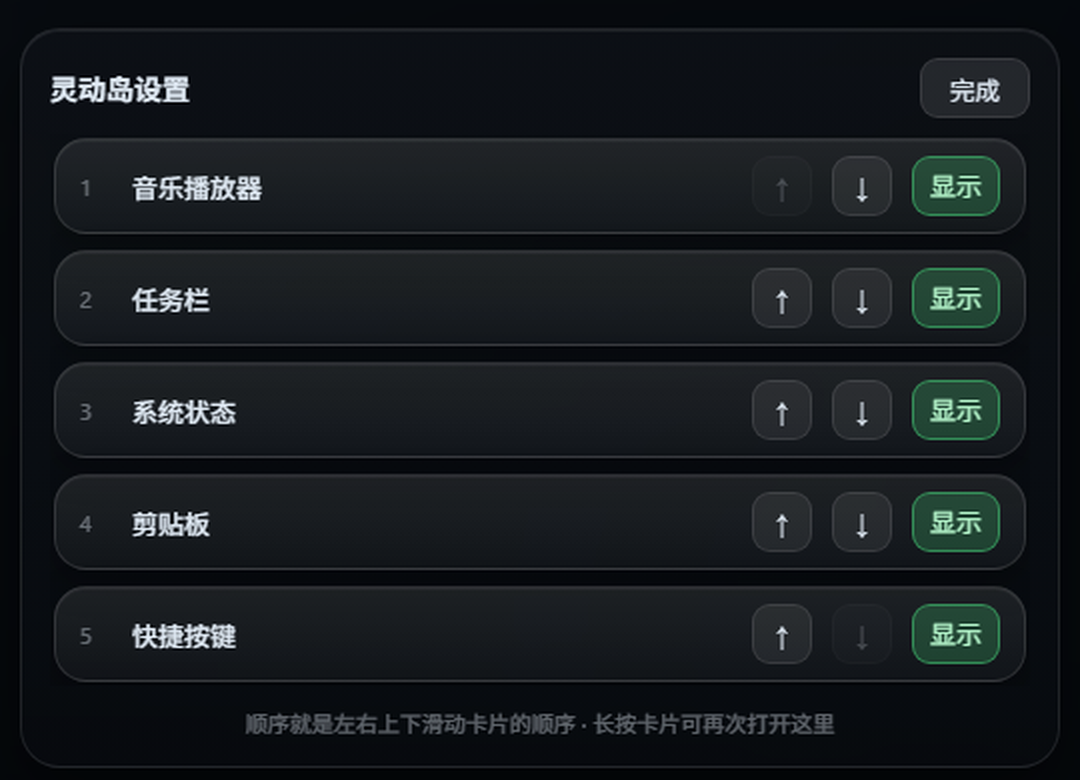
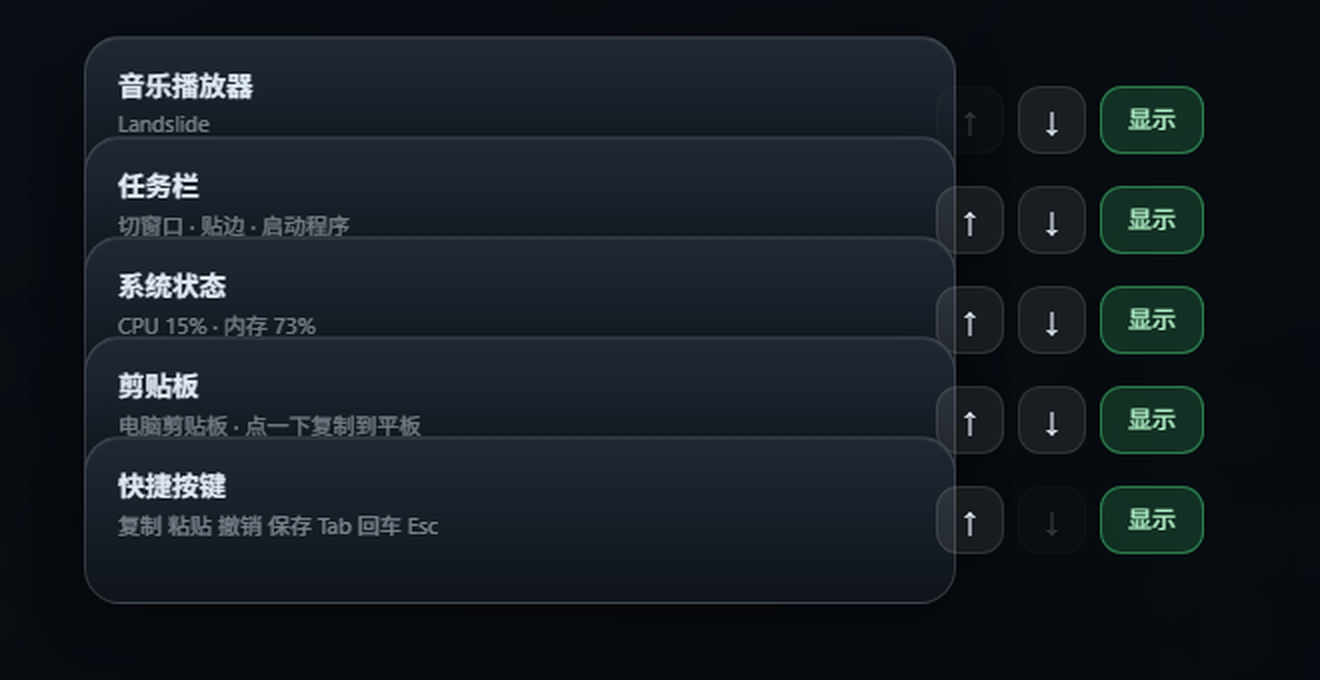
feat(island): 设置面板改成卡片堆叠展开（仿华为）
- 长按卡片后，所有卡片从中间叠着的状态展开成竖排，每张错开 50px、卡高 84
- 每张卡右侧有 ↑ / ↓ / 显示，对齐到各自卡片
- 只改 transform，靠 CSS transition 动画：打开依次铺开（i*38ms 延迟）、
  重排同一套动画（DOM 不重建）、关闭反向收回
- 卡片底色改成近乎不透明，叠起来时下层文字不会透上来
- 内容顶部对齐，被叠住时也能看到标题和副标题

Changed region(s): [[0.0306, 0.0309, 0.9778, 0.9574], [0.0611, 0.8029, 0.0917, 0.8338], [0.0306, 0.7721, 0.0611, 0.8029]]

diff --git a/web/app.js b/web/app.js
@@ -999,7 +999,7 @@
   const CFG_KEY = 'padtrack.island.prefs';
   const CFG_NAMES = { music: '音乐播放器', tasks: '任务栏', sys: '系统状态', clip: '剪贴板', macro: '快捷按键' };
   const cfgPanel = document.getElementById('islandCfg');
-  const cfgListEl = document.getElementById('cfgList');
+  const cfgStage = document.getElementById('cfgStage');
   const cfgDoneBtn = document.getElementById('cfgClose');
 
   let cfgPrefs = { order: [], hidden: [] };
@@ -1040,57 +1040,125 @@
     islandPaint(true);
   }
 
-  function cfgRender() {
-    if (!cfgListEl) return;
-    cfgListEl.innerHTML = '';
-    const list = cfgOrdered();
-    list.forEach((card, i) => {
-      const hid = cfgPrefs.hidden.includes(card.id);
+  // 舞台里每张卡一个 .cfgrow（卡本体 + 右侧控制）
+  const cfgRows = new Map();      // id → row 元素
+  let cfgBuilt = false;
+
+  function cfgSubtitle(id) {
+    if (id === 'music') {
+      const t = document.getElementById('musicTitle');
+      return (t && t.textContent && t.textContent !== '—') ? t.textContent : '当前没有播放';
+    }
+    if (id === 'tasks') return '切窗口 · 贴边 · 启动程序';
+    if (id === 'sys') {
+      const c = document.getElementById('sysCpu');
+      return c ? ('CPU ' + c.textContent + ' · 内存 ' + document.getElementById('sysMem').textContent) : 'CPU / GPU / 温度';
+    }
+    if (id === 'clip') return '电脑剪贴板 · 点一下复制到平板';
+    if (id === 'macro') return '复制 粘贴 撤销 保存  Tab 回车 Esc';
+    return '';
+  }
+
+  function cfgBuild() {
+    if (cfgBuilt || !cfgStage) return;
+    cfgBuilt = true;
+    ISLAND_CARDS.forEach((card) => {
       const row = document.createElement('div');
-      row.className = 'cfgrow' + (hid ? ' off' : '');
+      row.className = 'cfgrow';
       row.dataset.card = card.id;
 
-      const no = document.createElement('span');
-      no.className = 'cfgno';
-      no.textContent = String(i + 1);
-      row.appendChild(no);
-
+      const cardEl = document.createElement('div');
+      cardEl.className = 'cfgcard';
       const name = document.createElement('b');
       name.textContent = CFG_NAMES[card.id] || card.id;
-      row.appendChild(name);
+      const sub = document.createElement('i');
+      sub.className = 'cfgsub';
+      cardEl.appendChild(name);
+      cardEl.appendChild(sub);
+      row.appendChild(cardEl);
+
+      const ctrls = document.createElement('div');
+      ctrls.className = 'cfgctrls';
 
       const up = document.createElement('button');
       up.textContent = '↑';
-      up.disabled = i === 0;
-      up.addEventListener('click', (e) => { e.stopPropagation(); cfgMove(i, -1); });
-      row.appendChild(up);
-
+      up.dataset.act = 'up';
       const down = document.createElement('button');
       down.textContent = '↓';
-      down.disabled = i === list.length - 1;
-      down.addEventListener('click', (e) => { e.stopPropagation(); cfgMove(i, 1); });
-      row.appendChild(down);
-
+      down.dataset.act = 'down';
       const tg = document.createElement('button');
-      tg.className = 'cfgtoggle' + (hid ? '' : ' on');
-      tg.textContent = hid ? '隐藏' : '显示';
-      tg.addEventListener('click', (e) => { e.stopPropagation(); cfgToggle(card.id); });
-      row.appendChild(tg);
+      tg.className = 'cfgtoggle';
+      tg.dataset.act = 'toggle';
 
-      cfgListEl.appendChild(row);
+      ctrls.appendChild(up);
+      ctrls.appendChild(down);
+      ctrls.appendChild(tg);
+      row.appendChild(ctrls);
+
+      up.addEventListener('click', (e) => { e.stopPropagation(); cfgMove(card.id, -1); });
+      down.addEventListener('click', (e) => { e.stopPropagation(); cfgMove(card.id, 1); });
+      tg.addEventListener('click', (e) => { e.stopPropagation(); cfgToggle(card.id); });
+
+      cfgStage.appendChild(row);
+      cfgRows.set(card.id, row);
     });
   }
 
-  function cfgMove(index, delta) {
+  // 只改 transform，靠 CSS transition 做动画（重排也是同一个动画）
+  function cfgLayout(animate) {
+    const list = cfgOrdered();
+    const step = 50;                     // 每张卡错开 50px（卡高 84，所以有重叠）
+    const h = 84;
+    const total = h + (list.length - 1) * step;
+
+    list.forEach((card, i) => {
+      const row = cfgRows.get(card.id);
+      if (!row) return;
+      const y = i * step - total / 2 + h / 2;
+      row.style.zIndex = String(10 + i);
+      if (animate) {
+        row.style.transitionDelay = (i * 38) + 'ms';
+        requestAnimationFrame(() => {
+          row.style.transform = `translate3d(0, ${y}px, 0)`;
+          row.style.opacity = '1';
+          setTimeout(() => { row.style.transitionDelay = '0ms'; }, 600 + i * 38);
+        });
+      } else {
+        row.style.transform = `translate3d(0, ${y}px, 0)`;
+        row.style.opacity = '1';
+      }
+    });
+
+    // 控制按钮状态 + 副标题
+    list.forEach((card, i) => {
+      const row = cfgRows.get(card.id);
+      if (!row) return;
+      const hid = cfgPrefs.hidden.includes(card.id);
+      row.classList.toggle('off', hid);
+      const up = row.querySelector('[data-act="up"]');
+      const down = row.querySelector('[data-act="down"]');
+      const tg = row.querySelector('[data-act="toggle"]');
+      if (up) up.disabled = i === 0;
+      if (down) down.disabled = i === list.length - 1;
+      if (tg) {
+        tg.textContent = hid ? '隐藏' : '显示';
+        tg.classList.toggle('on', !hid);
+      }
+      const sub = row.querySelector('.cfgsub');
+      if (sub) sub.textContent = cfgSubtitle(card.id);
+    });
+  }
+
+  function cfgMove(id, delta) {
     const ids = cfgOrdered().map((c) => c.id);
-    const to = index + delta;
-    if (to < 0 || to >= ids.length) return;
-    const [x] = ids.splice(index, 1);
-    ids.splice(to, 0, x);
+    const at = ids.indexOf(id);
+    const to = at + delta;
+    if (at < 0 || to < 0 || to >= ids.length) return;
+    ids.splice(to, 0, ids.splice(at, 1)[0]);
     cfgPrefs.order = ids;
     cfgSave();
     cfgApply();
-    cfgRender();
+    cfgLayout(true);          // 只改 transform，位置会自己滑过去
   }
 
   function cfgToggle(id) {
@@ -1108,26 +1176,42 @@
     cfgPrefs.hidden = [...hidden];
     cfgSave();
     cfgApply();
-    cfgRender();
+    cfgLayout(false);
   }
 
   function cfgOpen() {
     if (!cfgPanel) return;
-    cfgRender();
+    cfgBuild();
+    // 先全部叠到中间（合起来），再动画铺开
+    cfgRows.forEach((row) => {
+      row.style.transitionDelay = '0ms';
+      row.style.transform = 'translate3d(0, 0, 0) scale(.92)';
+      row.style.opacity = '0';
+    });
     cfgPanel.classList.add('on');
     cfgPanel.setAttribute('aria-hidden', 'false');
+    void cfgPanel.offsetWidth;          // 强制回流，保证有起始态
+    cfgLayout(true);
   }
 
   function cfgClosePanel() {
     if (!cfgPanel) return;
-    cfgPanel.classList.remove('on');
-    cfgPanel.setAttribute('aria-hidden', 'true');
+    // 收回中间再关闭
+    cfgRows.forEach((row) => {
+      row.style.transitionDelay = '0ms';
+      row.style.transform = 'translate3d(0, 0, 0) scale(.94)';
+      row.style.opacity = '0';
+    });
+    setTimeout(() => {
+      cfgPanel.classList.remove('on');
+      cfgPanel.setAttribute('aria-hidden', 'true');
+    }, 240);
   }
 
   if (cfgDoneBtn) cfgDoneBtn.addEventListener('click', (e) => { e.stopPropagation(); cfgClosePanel(); });
   if (cfgPanel) {
     cfgPanel.addEventListener('pointerdown', (e) => {
-      if (e.target === cfgPanel) cfgClosePanel();
+      if (e.target === cfgPanel || e.target === cfgStage) cfgClosePanel();
     });
   }
 

diff --git a/web/app.css b/web/app.css
@@ -1330,52 +1330,71 @@ html.glass-light {
   .winmenu button:active { background: var(--glass-hover); }
   .winmenu button.danger { color: #ff9c9c; }
 
-
-  /* ================= 灵动岛设置面板 ================= */
+  /* ================= 灵动岛设置：卡片堆叠展开 ================= */
   .islandcfg {
     position: fixed; inset: 0; z-index: 92; display: none;
-    background: rgba(4, 7, 10, .72);
-    backdrop-filter: blur(16px); -webkit-backdrop-filter: blur(16px);
+    background: rgba(4, 7, 10, .58);
+    backdrop-filter: blur(10px); -webkit-backdrop-filter: blur(10px);
   }
-  .islandcfg.on { display: flex; align-items: flex-end; justify-content: center; }
-  .cfgsheet {
-    width: min(96vw, 520px); max-height: 76vh; margin-bottom: 16px;
-    display: flex; flex-direction: column; gap: 8px;
-    padding: 14px; border-radius: 20px;
-    background: linear-gradient(180deg, var(--glass-top), var(--glass-bot));
-    border: 1px solid var(--glass-border);
-    box-shadow: var(--card-shadow-front);
-    animation: cfgIn .26s cubic-bezier(.32,1.25,.45,1);
-  }
-  @keyframes cfgIn { from { opacity: 0; transform: translateY(18px) scale(.98); } }
-  .cfghead { display: flex; align-items: center; justify-content: space-between; }
-  .cfghead span { font-size: 14px; font-weight: 600; color: var(--glass-text); }
-  .cfghead button {
-    height: 30px; padding: 0 14px; border-radius: 9px;
-    background: rgba(255, 255, 255, .1); border: 1px solid var(--glass-border);
-    color: var(--glass-text); font-size: 12.5px;
-  }
-  .cfglist { display: flex; flex-direction: column; gap: 6px; overflow-y: auto; }
-  /* 每行做成一张「卡片」的样子，像华为卡片堆叠那样能一眼看到全部卡片 */
-  .cfglist { gap: 8px; padding: 2px; }
+  .islandcfg.on { display: block; }
+  .cfgstage { position: absolute; inset: 0; }
+
+  /* 每一行 = 一张卡 + 右侧控制；整行用 transform 定位，重排时只改 transform */
   .cfgrow {
-    display: flex; align-items: center; gap: 10px;
-    min-height: 48px; padding: 8px 12px; border-radius: 16px;
-    background: linear-gradient(180deg, rgba(255,255,255,.09), rgba(255,255,255,.04));
-    border: 1px solid rgba(255, 255, 255, .12);
-    box-shadow: 0 6px 18px rgba(0, 0, 0, .28), inset 0 1px 0 rgba(255, 255, 255, .06);
-    transition: transform .18s var(--ease-spring), opacity .2s ease, border-color .2s ease;
+    position: absolute; left: 50%; top: 50%;
+    width: min(86vw, 560px); height: 84px;
+    margin-left: calc(min(86vw, 560px) / -2 + 52px);
+    margin-top: -42px;
+    transition: transform .52s cubic-bezier(.32, 1.18, .4, 1), opacity .3s ease;
+    will-change: transform, opacity;
   }
-  .cfgrow:active { transform: scale(.985); }
-  .cfgrow.off { opacity: .45; }
-  .cfgrow b { flex: 1 1 auto; font-size: 13px; font-weight: 500; color: var(--glass-text); }
-  .cfgrow .cfgno { font-size: 11px; color: rgba(226,236,246,.4); width: 16px; }
-  .cfgrow button {
-    width: 30px; height: 30px; border-radius: 9px;
-    background: rgba(255, 255, 255, .07); border: 1px solid var(--glass-border);
-    color: var(--glass-text); font-size: 13px; line-height: 1;
+
+  /* 卡片本体 */
+  .cfgcard {
+    position: absolute; inset: 0 124px 0 0;
+    display: flex; flex-direction: column; justify-content: flex-start; gap: 2px;
+    padding: 13px 16px 0;
+    border-radius: 18px;
+    /* 要够实：叠起来时下层的文字不能透上来 */
+    background: linear-gradient(180deg, rgba(32, 41, 52, .985), rgba(15, 20, 27, .99));
+    border: 1px solid rgba(255, 255, 255, .14);
+    box-shadow: 0 10px 26px rgba(0, 0, 0, .42), inset 0 1px 0 rgba(255, 255, 255, .07);
+    overflow: hidden;
   }
-  .cfgrow button:disabled { opacity: .25; }
-  .cfgrow .cfgtoggle { width: 44px; }
-  .cfgrow .cfgtoggle.on { background: rgba(74, 222, 128, .22); border-color: rgba(74, 222, 128, .5); color: #b7f7cd; }
-  .cfgtip { font-size: 11px; color: rgba(226, 236, 246, .42); text-align: center; padding-top: 2px; }
+  .cfgcard b { font-size: 13.5px; font-weight: 600; color: var(--glass-text); }
+  .cfgcard i {
+    font-style: normal; font-size: 11px; color: rgba(226, 236, 246, .5);
+    white-space: nowrap; overflow: hidden; text-overflow: ellipsis;
+  }
+  .cfgrow.off .cfgcard { opacity: .38; border-style: dashed; }
+
+  /* 右侧控制 */
+  .cfgctrls {
+    position: absolute; right: 0; top: 50%; transform: translateY(-50%);
+    display: flex; align-items: center; gap: 7px;
+  }
+  .cfgctrls button {
+    width: 34px; height: 34px; border-radius: 11px;
+    background: rgba(255, 255, 255, .08); border: 1px solid var(--glass-border);
+    color: var(--glass-text); font-size: 14px; line-height: 1;
+    transition: background .15s ease, transform .15s var(--ease-spring), opacity .15s ease;
+  }
+  .cfgctrls button:active { background: var(--glass-hover); transform: scale(.9); }
+  .cfgctrls button:disabled { opacity: .2; }
+  .cfgctrls .cfgtoggle { width: 52px; font-size: 12px; }
+  .cfgctrls .cfgtoggle.on {
+    background: rgba(74, 222, 128, .18);
+    border-color: rgba(74, 222, 128, .45);
+    color: #b7f7cd;
+  }
+
+  .cfgdone {
+    position: absolute; right: 18px; top: calc(14px + env(safe-area-inset-top));
+    height: 34px; padding: 0 18px; border-radius: 12px;
+    background: rgba(255, 255, 255, .1); border: 1px solid var(--glass-border);
+    color: var(--glass-text); font-size: 13px;
+  }
+  .cfgtip {
+    position: absolute; left: 0; right: 0; bottom: calc(16px + env(safe-area-inset-bottom));
+    text-align: center; font-size: 11.5px; color: rgba(226, 236, 246, .42);
+  }

diff --git a/web/index.html b/web/index.html
@@ -5,7 +5,7 @@
 <meta name="viewport" content="width=device-width,initial-scale=1,maximum-scale=1,user-scalable=no,viewport-fit=cover">
 <meta name="theme-color" content="#0d1117">
 <title>PadTrack 触控板</title>
-<link rel="stylesheet" href="app.css?v=1182">
+<link rel="stylesheet" href="app.css?v=1183">
 </head>
 <body>
 
@@ -165,15 +165,11 @@
 
 <!-- 灵动岛设置（长按非任务栏卡进入） -->
 <div id="islandCfg" class="islandcfg" aria-hidden="true">
-  <div class="cfgsheet">
-    <div class="cfghead">
-      <span>灵动岛设置</span>
-      <button id="cfgClose">完成</button>
-    </div>
-    <div class="cfglist" id="cfgList"></div>
-    <div class="cfgtip">顺序就是左右上下滑动卡片的顺序 · 长按卡片可再次打开这里</div>
-  </div>
+  <div class="cfgstage" id="cfgStage"></div>
+  <button id="cfgClose" class="cfgdone">完成</button>
+  <div class="cfgtip">长按卡片可再次打开 · 顺序就是滑动顺序</div>
 </div>
+
 <!-- 窗口管理菜单（长按任务栏图标弹出） -->
 <div id="winMenu" class="winmenu" aria-hidden="true"></div>
 <div id="taskIsland" class="island-card" data-card="tasks" aria-label="任务栏">
@@ -303,6 +299,6 @@
   </div>
 </div>
 
-<script src="app.js?v=1182"></script>
+<script src="app.js?v=1183"></script>
 </body>
 </html>

diff --git a/交接文档.md b/交接文档.md
@@ -1002,3 +1002,15 @@ vidia-smi 取占用/显存/温度，CPU 温度走 WMI
 - **灵动岛设置**：长按任意非任务栏卡片 → 弹出「所有卡片」面板（仿华为卡片堆叠），
   可上移下移改滑动顺序、可显示/隐藏，存 localStorage padtrack.island.prefs。
   至少保留一张卡。
+### 灵动岛设置改版（堆叠展开）
+
+不再是底部列表，改成**卡片堆叠展开**（参考华为卡片堆叠）：长按任意非任务栏卡片 →
+所有卡片从中间叠在一起的状态展开成竖排，每张卡错开 50px、卡高 84（所以有重叠），
+可见条里能看到标题 + 副标题；右侧每组 ↑ / ↓ / 显示 按钮对齐到各自卡片。
+
+实现要点：
+- 舞台里的行只改 	ransform: translate3d(0,Y,0)，动画全靠 CSS transition，
+  所以**重排也是同一套动画**（不重建 DOM，位置自己滑过去）
+- 打开时先把所有行压到中间（scale .92 / opacity 0），强制回流后按 i*38ms 依次铺开
+- 关闭反向收回
+- 顺序/显隐存 localStorage padtrack.island.prefs
